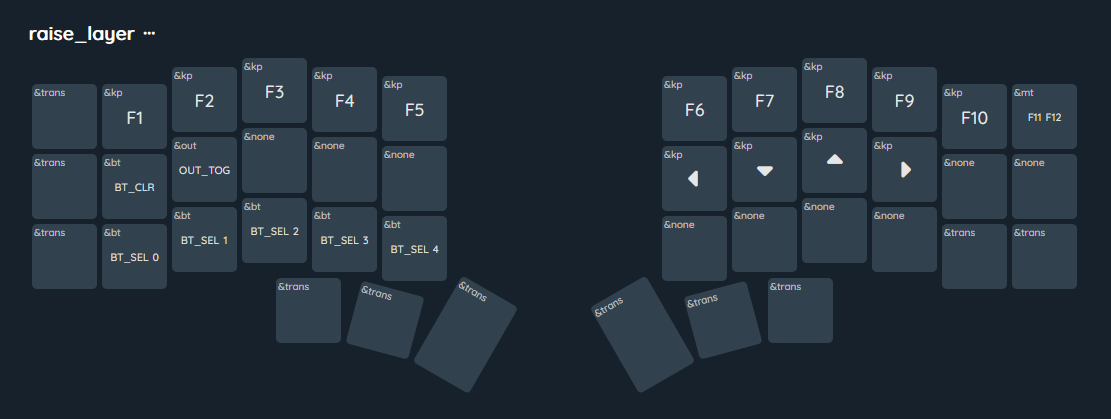
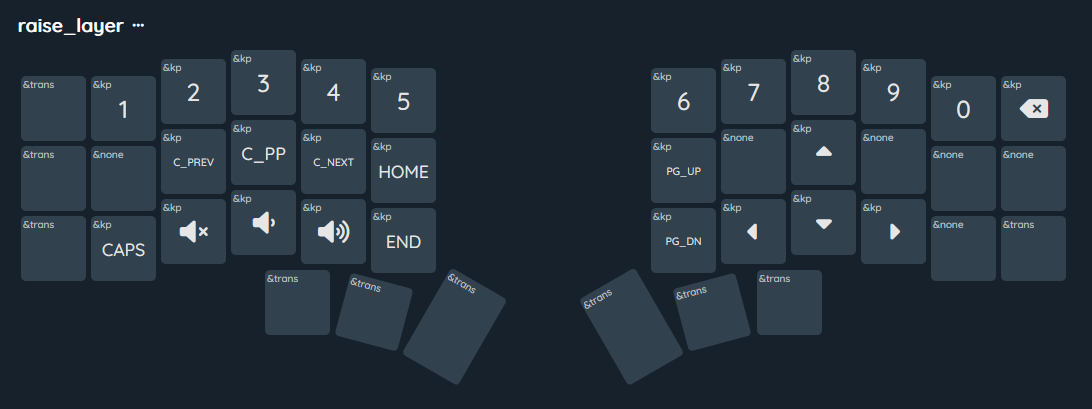
文件：在README.md中更新圖片並添加新圖片“function.png”。
- 更新README.md文件中“調整圖層”圖片
- 刪除文件“pictures/adjust.png”
- 更新“base.png”文件的圖片
- 添加新圖片“function.png”
- 更新“lower.png”文件的圖片
- 更新“raise.png”文件的圖片

diff --git a/README.md b/README.md
@@ -8,4 +8,4 @@
 
 ![Raise Layer](https://github.com/cloverdefa/corne-wireless-view-zmk-config/blob/main/pictures/raise.png?raw=true)
 
-![Adjust Layer](https://github.com/cloverdefa/corne-wireless-view-zmk-config/blob/main/pictures/adjust.png?raw=true)
+![Adjust Layer](https://github.com/cloverdefa/corne-wireless-view-zmk-config/blob/main/pictures/function.png?raw=true)
